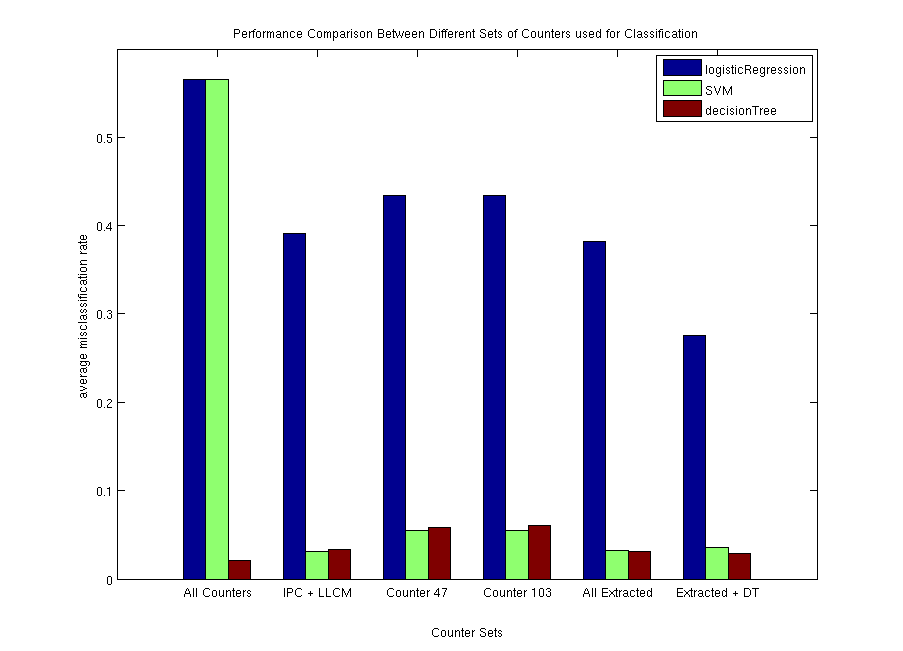
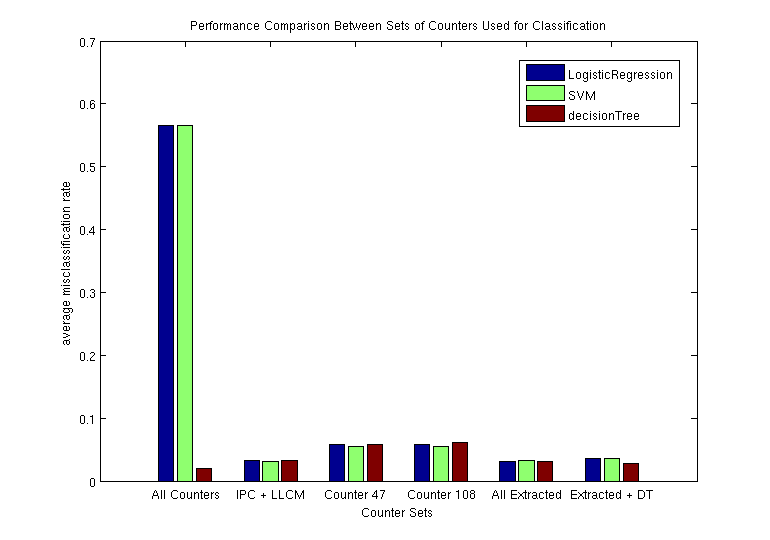
a lot of small changes

diff --git a/MATLAB/common_counters.m b/MATLAB/common_counters.m
@@ -2,6 +2,7 @@
 
 %feature_analysis
 
+%the training dataset
 training_file = 'full-training.csv';
 
 disp(' ~~~~~~ COMMON COUNTERS ~~~~~~');
@@ -25,30 +26,25 @@ hist(all_counters, max(all_counters));
 dist = vertcat(1:139, dist)';
 dist = sortrows(dist, -2);
 
+%%
+%decide which counters to evaluate
+
+%original counters used to measure IPC and LLCM
 %{
     6 - L3-CACHE-MISSES*
     13 - CPU-CLK-UNHALTED*
-    32 - PERF-COUNT-HW-CPU-CYCLES
     47 - RETIRED-INSTRUCTIONS*
     68 - MEMORY-CONTROLLER-REQUESTS*
-    98 - PERF-COUNT-HW-INSTRUCTIONS
-    118 - PERF-COUNT-HW-CACHE-LL
-
-    *used by task3.c
-
     IPC = RETIRED-INSTRUCTIONS / CPU-CLK-UNHALTED2
 %}
 
-%disp(dist(1:10, :));
-features = 139;
-%foo = [2 3 9 10];
-%foo = [3, 9];
-%top = dist(foo, :);
-top = dist(1:features, :);
-%top = [6,0;47,0;13,0;68,0;];
-%top = [13,0;67,0;102,0;103,0;];
-%top = [103 0;];
-%top = [111,0;];
+%choose or make a set of counters to evaluate
+features = 4;
+%top = [103,0];
+%top = dist(1:features, :);          %use top extracted features
+%top = [6,0;47,0;13,0;68,0;];       %use IPC and LLCM counters
+top = [13,0;67,0;102,0;103,0;];    %use best 4 extracted features
+
 names = {};
 
 disp('common counters');
@@ -62,7 +58,6 @@ end
 %prepare data for training 
 path = sprintf('./training_data/%s',training_file);
 thread_data = csvread(path);
-%norm_data =thread_data; 
 norm_data = standardize_m(thread_data, 0);
 
 ctrs = top(:, 1)';
@@ -74,13 +69,14 @@ norm_data = norm_data(:, cols);
 %%
 % training and testing different models
 disp('----- extracted results -----');
-all_errs = zeros(3,100);
+T=10;
+all_errs = zeros(3,T);
 
-for trials=1:100
+for trials=1:T
     K = 10;
     groupings = crossvalind('Kfold', (1:size(norm_data, 1)), K);
     avg_err = zeros(3, 1);
-    
+    disp(sprintf('iteration %d', trials));
     for k=1:K
 
         test_data = norm_data(find(groupings == k), :);
@@ -88,13 +84,14 @@ for trials=1:100
         attrs_n = size(test_data, 2);
 
         %logistic regression 1
-        weights_v = online_glr(train_data, size(train_data, 1), 0, []);
-        [predict_y, posterior_y] = binary_logistic_predict(test_data, weights_v);
+        weights_v = online_glr(train_data(:, 1:attrs_n-1), train_data(:, attrs_n), size(train_data, 1), 0, []);
+        [predict_y, posterior_y] = binary_logistic_predict(test_data(:, 1:attrs_n-1), weights_v);
         [err_count, err_rate] = misclass_count(test_data(:,attrs_n), predict_y);        
         avg_err(1, 1) = avg_err(1, 1) + err_rate;
         
         %support vector machine (SVM) 2 
-        non_zero = find( std(train_data(1:size(train_data, 1),:)) ~= NaN ); %only for all counters
+        %non_zero = find( std(train_data(1:size(train_data, 1),:)) ~= NaN ); %only for all counters
+        non_zero = 1:attrs_n-1;
         [weights_v, bias] = svml(train_data(:, non_zero), train_data(:, attrs_n), 5);
         [predict_y, posterior_y] = binary_svm_predict(test_data(:,non_zero), weights_v, bias); 
         [err_count, err_rate] = misclass_count(test_data(:,attrs_n), predict_y);
@@ -108,51 +105,8 @@ for trials=1:100
         avg_err(3, 1) = avg_err(3, 1) + err_rate;
 
     end
-    %disp(avg_conf / K);
-    %disp(avg_err / K);
     all_errs(:, trials) = avg_err / K;
 end
 
 disp('average error');
 disp(mean(all_errs, 2));
-
-
-%{
-%%
-%independent run of the decision tree against all counters of phase data
-disp('----- baseline -----');
-all_errs = zeros(1,100);
-
-%for trials=1:100
-
-    K = 10;
-    groupings = crossvalind('Kfold', (1:size(thread_data, 1)), K);
-    avg_conf = [0,0; 0,0];
-    avg_err = 0;
-
-    for k=1:K
-
-        test_data = thread_data(find(groupings == k), :);
-        train_data = thread_data(find(groupings ~= k), :);
-
-        attrs_n = size(test_data, 2);
-        all_tree = classregtree(train_data(:, 1:attrs_n - 1), train_data(:, attrs_n), 'names', counter_names{1}, 'method', 'classification');
-        predict_y = cell2mat(eval(all_tree, test_data(:, 1:attrs_n - 1)));
-        predict_y = str2num(predict_y);
-
-        [conf_m, stats_m] = binary_confusion_matrix(test_data(:,attrs_n), predict_y);
-        [err_count, err_rate] = misclass_count(test_data(:,attrs_n), predict_y);
-
-        avg_conf = avg_conf + conf_m;
-        avg_err = avg_err + err_rate;
-    end
-
-    %disp(avg_conf / K );
-    %disp(avg_err / K);
-    all_errs(trials) = avg_err / K;
-%end
-disp('average error');
-disp(mean(all_errs));
-disp('average std');
-disp(std(all_errs));
-%}

diff --git a/MATLAB/lone_performance.m b/MATLAB/lone_performance.m
@@ -41,10 +41,8 @@ dist = sortrows(dist, -2);
 %}
 
 %disp(dist(1:10, :));
-features = 10;
-%foo = [6 13 47 68];
+features = 4;
 %foo = [3, 9];
-%all_top = dist(foo, :);
 all_top = [6 0; 13 0; 47 0; 68 0];
 %all_top = dist(1:features, :);
 names = {};
@@ -56,6 +54,8 @@ thread_data = csvread(path);
 %norm_data = thread_data;
 norm_data = standardize_m(thread_data, 0);
 
+graph_data = zeros(3, features);
+
 
 for j=1:size(all_top, 1)
     top = all_top(j, :);
@@ -65,6 +65,7 @@ for j=1:size(all_top, 1)
         disp(sprintf('%d \t %s', top(i, 1), counter_names{1}{top(i, 1)}));
         names = horzcat([], counter_names{1}{top(i, 1)});
     end    
+    
     
     
     ctrs = top(:, 1)';
@@ -96,8 +97,8 @@ for j=1:size(all_top, 1)
             attrs_n = size(test_data, 2);
 
             %logistic regression 1
-            weights_v = online_glr(train_data, size(train_data, 1), 0, []);
-            [predict_y, posterior_y] = binary_logistic_predict(test_data, weights_v);
+            weights_v = online_glr(train_data(:, 1:attrs_n-1), train_data(:, attrs_n), size(train_data, 1), 0, []);
+            [predict_y, posterior_y] = binary_logistic_predict(test_data(:, 1:attrs_n-1), weights_v);
             [err_count, err_rate] = misclass_count(test_data(:,attrs_n), predict_y);        
             avg_err(1, 1) = avg_err(1, 1) + err_rate;
 
@@ -122,8 +123,11 @@ for j=1:size(all_top, 1)
 
     disp('average error');
     disp(mean(all_errs, 2));
+    
+    graph_data(:, j) = mean(all_errs, 2);
+    
     %disp('average std');
     %disp(std(all_errs, 0, 2));
 end
 
-%bar(lol); set(gca, 'XTickLabel', {'MEM-CTRL-REQS', 'RET-INST', 'L3-MISS', 'CPU-CLK-UNHALT'}); ylim([0, 1])
+bar(graph_data'); set(gca, 'XTickLabel', all_top(:,1)); ylim([0, 1])

diff --git a/MATLAB/feature_analysis.m b/MATLAB/feature_analysis.m
@@ -27,7 +27,7 @@ infiles = dir(fullfile('./parsec-all-counters','*.csv'));
 
 for f=1:size(infiles, 1);
     filename = infiles(f).name;
-    %filename = 'ferret.csv'
+    %filename = 'raytrace.csv';
     disp(sprintf('0] ======loading %s======', filename));
     data_raw = csvread(sprintf('parsec-all-counters/%s', filename));
 
